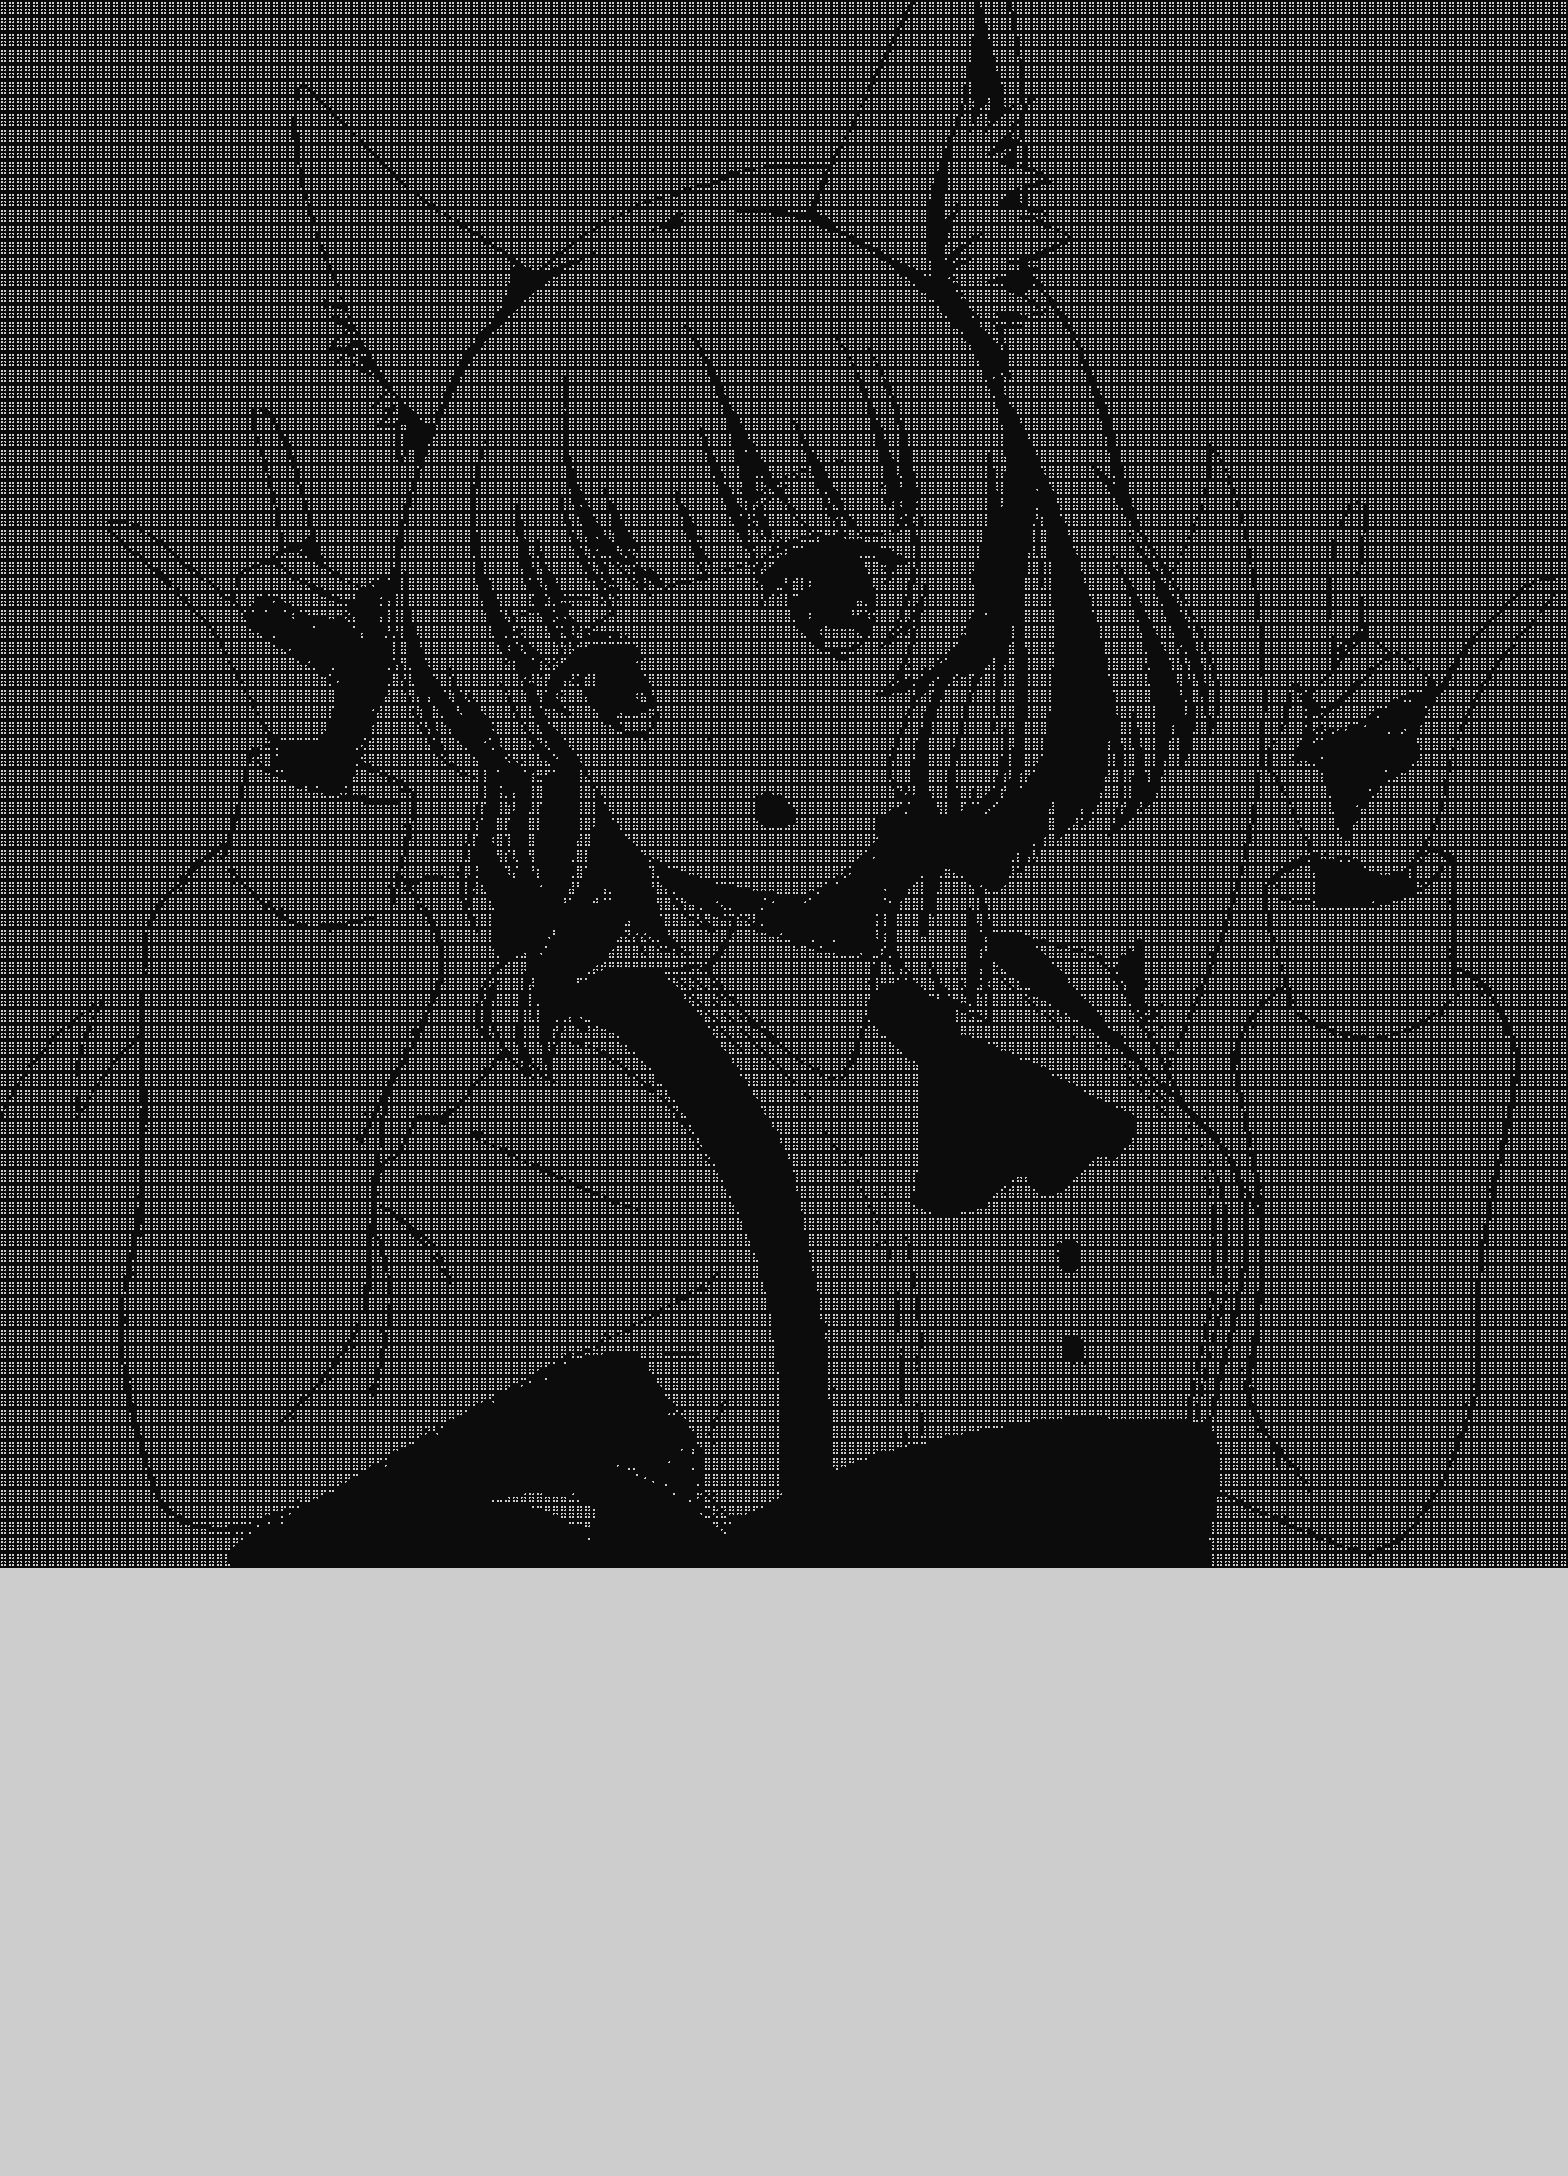
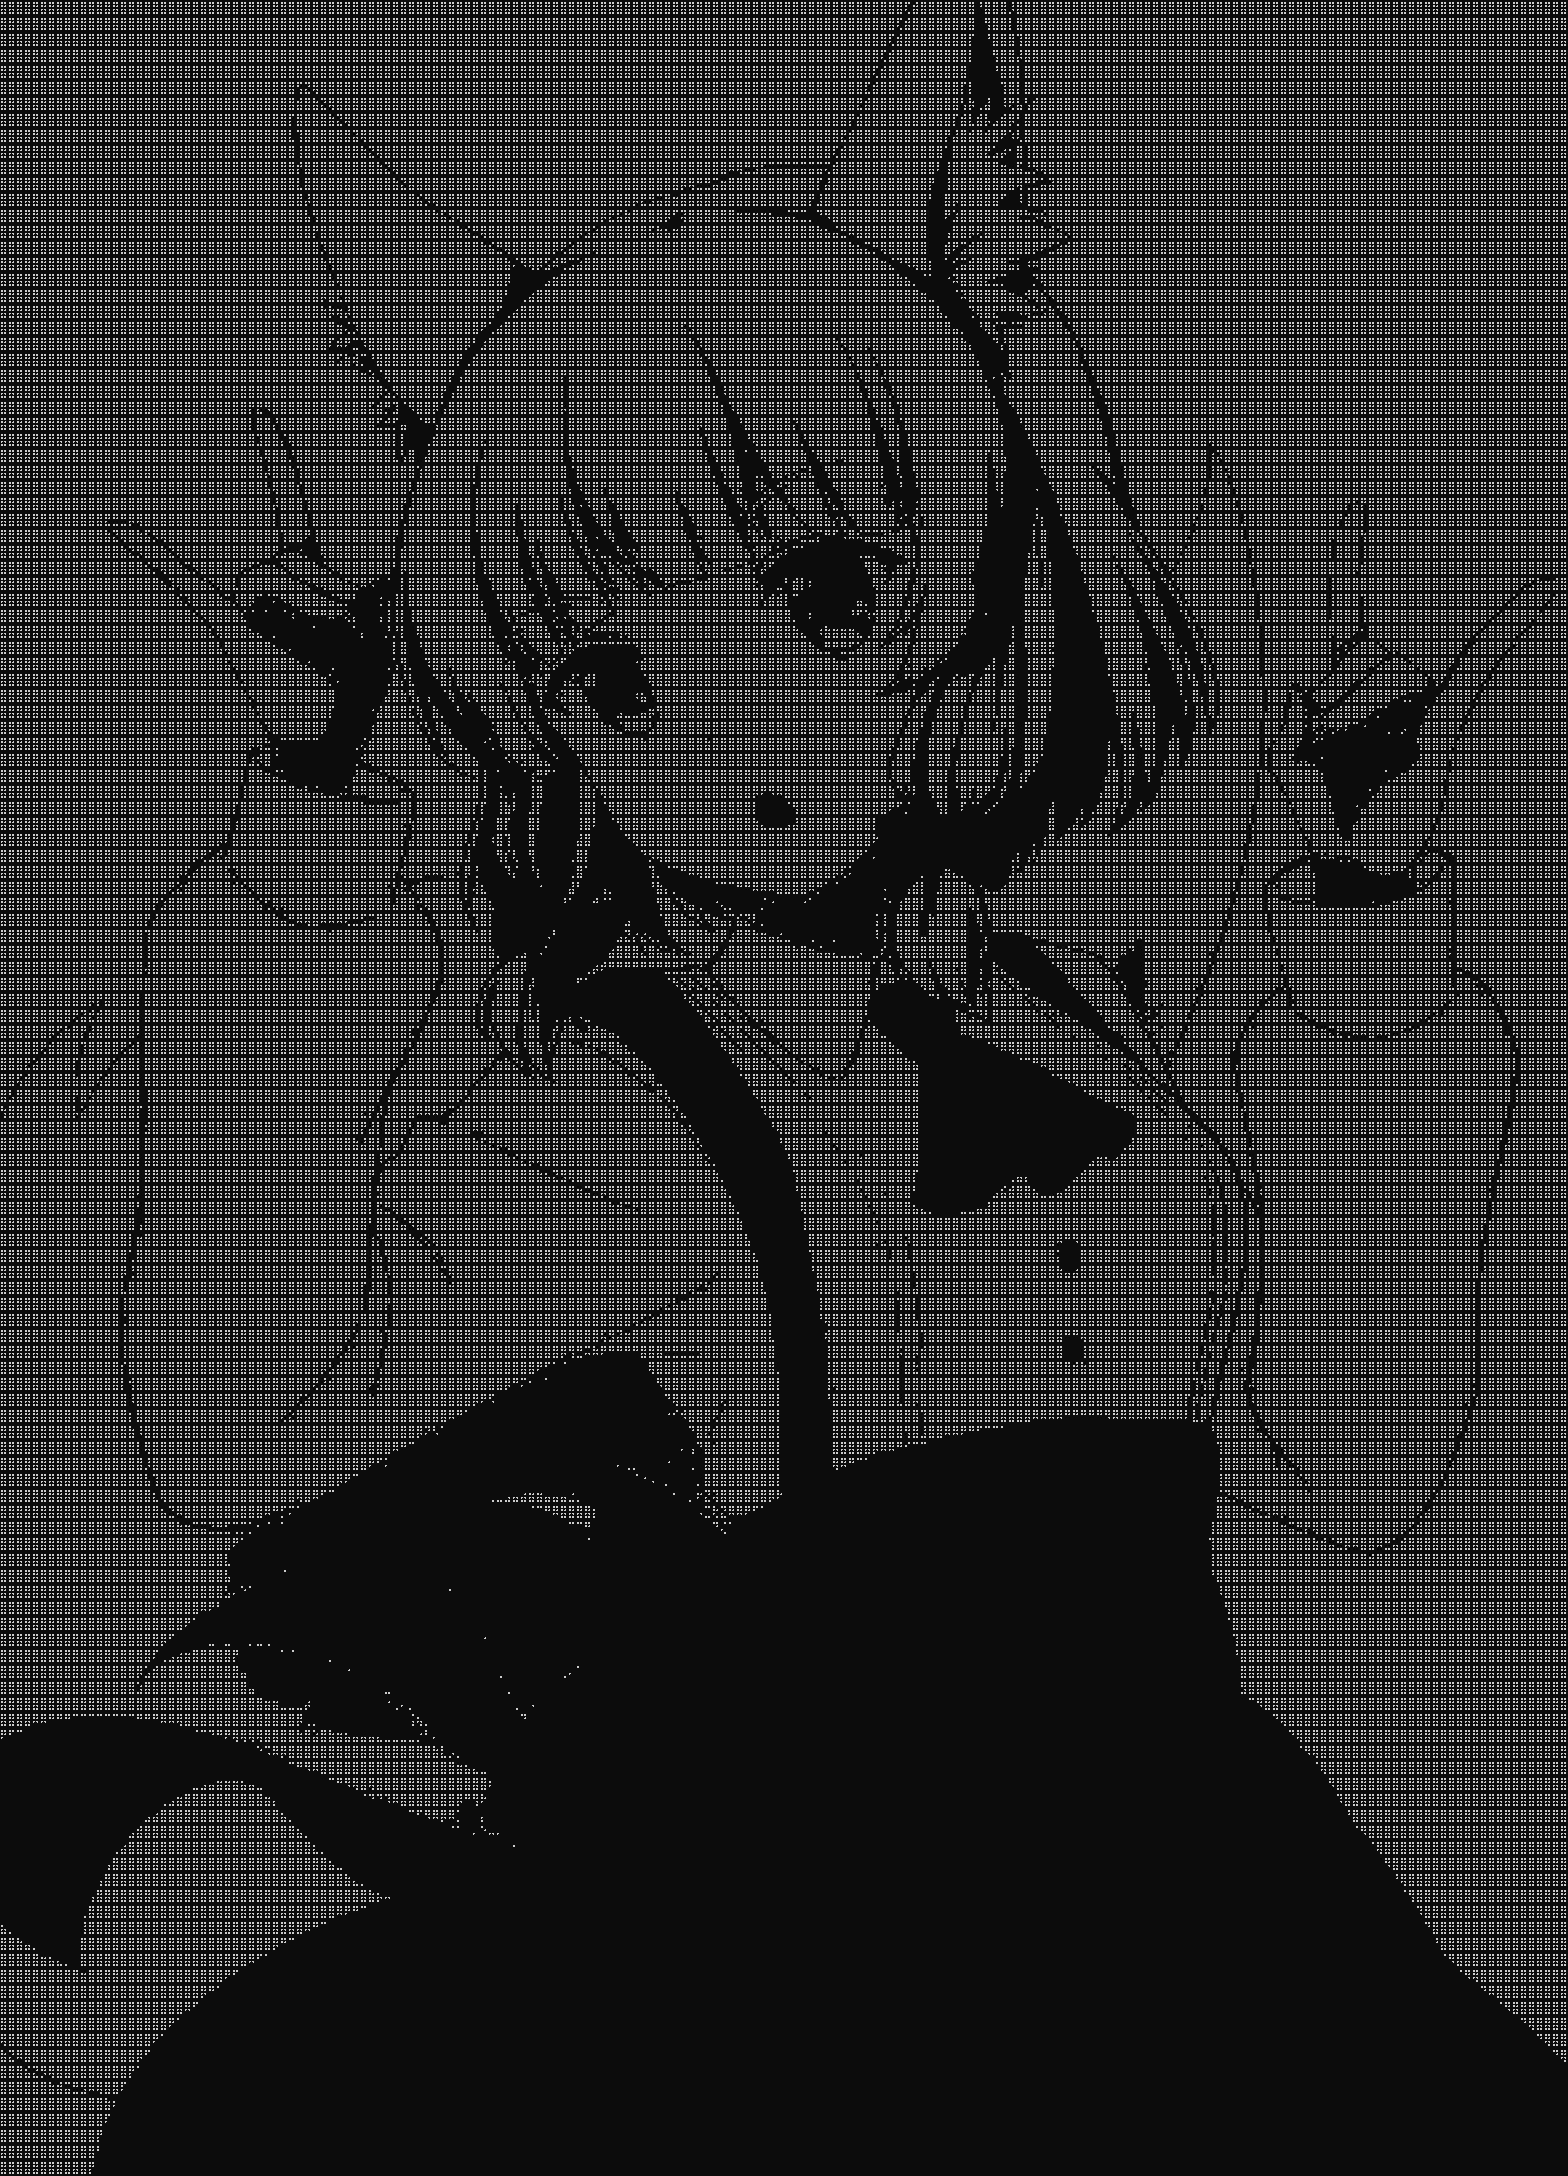
外掛

Changed region(s): [[0.0, 0.7188, 1.0, 1.0]]

diff --git a/Visual Studio/n_CollageOutput.h b/Visual Studio/n_CollageOutput.h
@@ -83,7 +83,8 @@ public:
         bool auto_thresh = false;
 
         if (super::type == IMG) {
-            pack.dsize = {(int)(img.cols / 4 / 8) * 8, (int)(img.rows / 4 / 16) * 16};
+            //pack.dsize = {(int)(img.cols / 4 / 8) * 8, (int)(img.rows / 4 / 16) * 16};
+            pack.dsize = { (int)(img.cols / 4 / 8) * 8, (int)(img.rows / 4 / 16) * 16 };
         }
 
         //輸出解析度放大 480x268 -> 1920x1072
@@ -91,7 +92,7 @@ public:
 
         cv::Mat output_mat(output_size, CV_8UC3);
         vector<vector<char>> braille_string(pack.dsize.height, vector<char>(pack.dsize.width, 'k'));
-        vector<vector<char>> braille_string2(pack.dsize.width, vector<char>(pack.dsize.height, 'k'));
+        vector<vector<char>> braille_string2(pack.dsize.height, vector<char>(pack.dsize.width, 'k'));
 
         if (pack.thresh == -1)
             auto_thresh = true;
@@ -107,44 +108,19 @@ public:
                 pack.thresh = mean(super::img).val[0];
             }
 
-            braille_create(braille_string, pack.thresh);
             braille_create2(braille_string2, pack.thresh);
-            /*for (int row = 3; row < braille_string.size(); row += 4) {
-                for (int col = 0; col < braille_string[0].size(); col += 1) {
-                    string buf = {
-                            braille_string[row - 3][col], braille_string[row - 2][col], braille_string[row - 1][col],
-                            braille_string[row][col]
-                    };
-                    fmt::print("{}還有{}這是答案={}\n", buf, "buf2", braille_string == braille_string2);
-                }
-            }*/
 
-            for (int row = 3; row < braille_string.size(); row += 4) {
-                for (int col = 0; col < braille_string[0].size(); col += 1) {
-                    string buf2 = {
+            for (int row = 3, i = 0; i < output_size.height; row += 4, i += thumbnail_size.height) {
+                for (int col = 0, j = 0; j < output_size.width; col += 1, j += thumbnail_size.width) {
+                    string buf = {
                             braille_string2[row - 3][col], braille_string2[row - 2][col], braille_string2[row - 1][col],
                             braille_string2[row][col]
                     };
-                    fmt::print("{}還有{}這是答案={}\n", "buf", buf2, braille_string == braille_string2);
-                }
-            }
-
-            /*for (int row = 3, i = 0; row < braille_string.size() && i < output_size.height; row += 4, i += thumbnail_size.height) {
-                for (int col = 0, j = 0; col < braille_string[0].size() && j < output_size.width; col += 1, j += thumbnail_size.width) {
-                    string buf = {
-                            braille_string[row - 3][col], braille_string[row - 2][col], braille_string[row - 1][col],
-                            braille_string[row][col]
-                    };
                     cv::Rect roi(cv::Point(j, i), thumbnail_size);
-                    //cout << buf << endl;
                     cv::Mat symbol = mats[buf + ".png"];
                     symbol.copyTo(output_mat(roi));
-
-                    /*cv::imshow("output_mat", output_mat);
-                    cv::waitKey(1);#1#
                 }
-            }*/
-
+            }
 
             super::type == IMG ? (void)imwrite("output_pic.png", output_mat) : super::writer.write(output_mat);
             fmt::print("進度: {}%\r", (process++ / super::frame_total) * 100);

diff --git a/Visual Studio/n_Imghandle.h b/Visual Studio/n_Imghandle.h
@@ -163,62 +163,22 @@ public:
         return *this;
     }
 
-    void braille_create(vector<vector<char>>& deep_arr, int threshold) {
-        cv::Mat ig(img.size(), img.type());
-
-        for (int i = 0; i < deep_arr[0].size(); i++) {
-            cout << img.size() << endl;
-            cout << img.rows << endl;
-            cout << img.cols << endl;
-
-            for (int j = 1; j < deep_arr.size(); j += 2) {
-                if(i > deep_arr.size() - 1) {
-                    fmt::print("{} > {} = {}\n", i, deep_arr.size() - 1, i > deep_arr.size() - 1);
-                    fmt::print("太大了塞不下\n");
-                    break;
-                }
-
-                if (this->img.at<uchar>(i, j - 1) > threshold) {
-                    if (this->img.at<uchar>(i, j) > threshold)
-                        deep_arr[i][j / 2] = 'm';
-                    else
-                        deep_arr[i][j / 2] = 'y';
-                }
-                else {
-                    if (this->img.at<uchar>(i, j) > threshold)
-                        deep_arr[i][j / 2] = 'z';
-                    else
-                        deep_arr[i][j / 2] = 'k';
-                }
-                ig.at<uchar>(i, j) = this->img.at<uchar>(i, j);
-
-            }
-        }
-
-        //cv::imshow("name2", ig);
-        //cv::waitKey(1);
-    }
-
     void braille_create2(vector<vector<char>>& deep_arr, int threshold) {
-        cv::Mat ig(img.size(), img.type());
         for (int i = 0; i < deep_arr.size(); i++) {
             for (int j = 1; j < deep_arr[0].size(); j += 2) {
-                if (this->img.at<uchar>(j - 1, i) > threshold) {
-                    if (this->img.at<uchar>(j, i) > threshold)
+                if (this->img.at<uchar>(i, j - 1) > threshold) { //.at(y, x)
+                    if (this->img.at<uchar>(i, j) > threshold) 
                         deep_arr[i][j / 2] = 'm';
                     else
                         deep_arr[i][j / 2] = 'y';
                 }
                 else {
-                    if (this->img.at<uchar>(j, i) > threshold)
+                    if (this->img.at<uchar>(i, j) > threshold)
                         deep_arr[i][j / 2] = 'z';
                     else
                         deep_arr[i][j / 2] = 'k';
                 }
-                ig.at<uchar>(j, i) = this->img.at<uchar>(j, i);
             }
         }
-        //cv::imshow("name", ig);
-        //cv::waitKey(1);
     }
 };

diff --git a/Visual Studio/n_ConsoleShow.h b/Visual Studio/n_ConsoleShow.h
@@ -58,7 +58,7 @@ public:
                 pack.thresh = mean(super::img).val[0];
             }
 
-            braille_create(braille_string, pack.thresh);
+            braille_create2(braille_string, pack.thresh);
             for (int i = 3, pixel = 0; i < braille_string.size(); i += 4) {
                 for (int j = 0; j < pack.dsize.height; j++, pixel++) {
                     string buf = {
